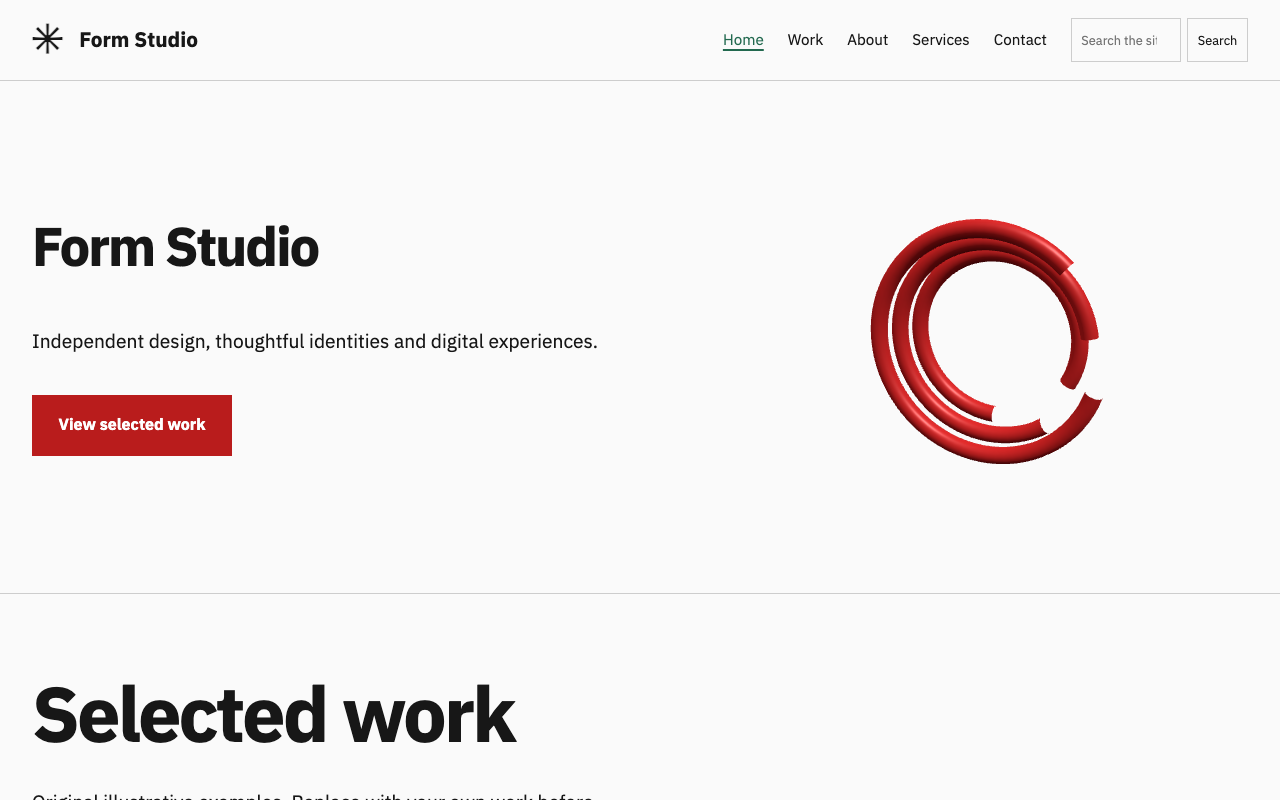
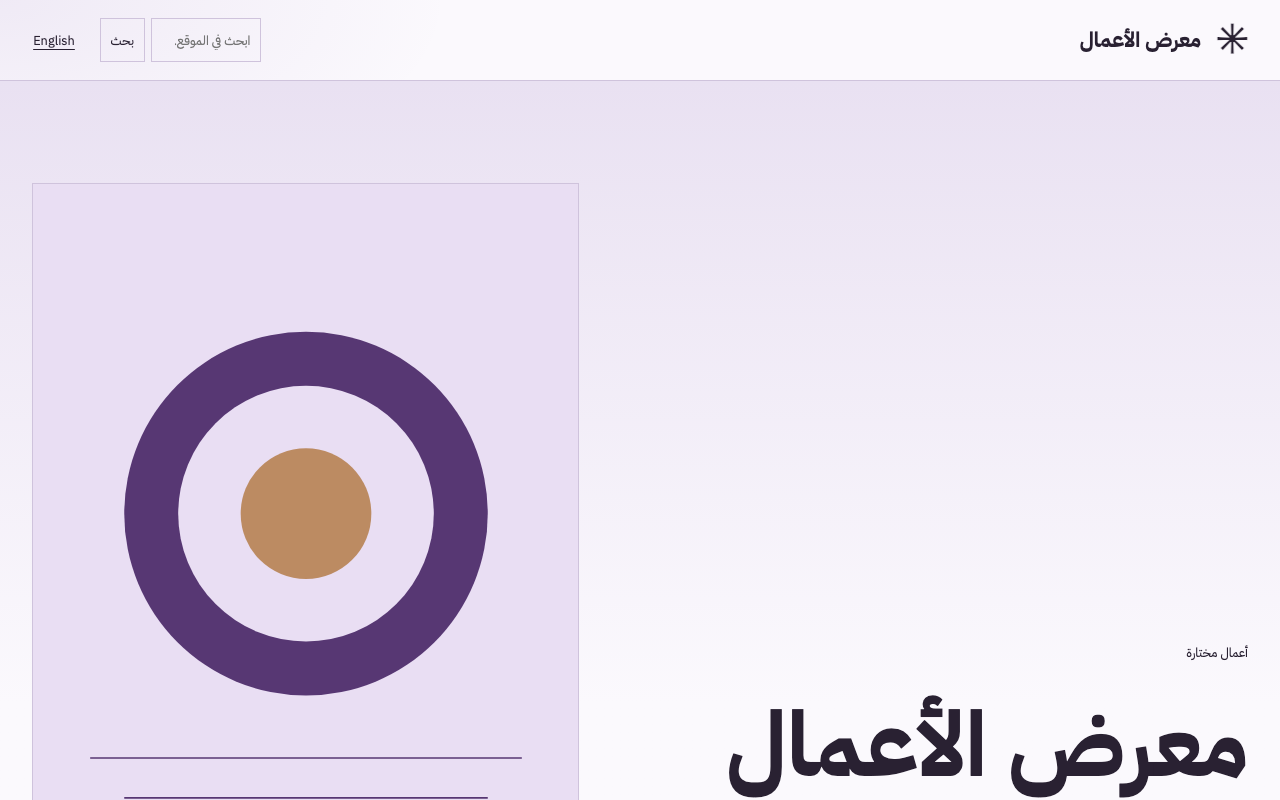
Give bundled themes descriptive identities and neutral previews

diff --git a/e2e/tests/theme-identities.spec.ts b/e2e/tests/theme-identities.spec.ts
@@ -1,0 +1,132 @@
+// Fresh-app documentation fixture: descriptive categories, never customer brands.
+// THEME_SCREENSHOTS=1 updates bundled gallery/README images; other runs write only test output.
+import { test, expect, type Page } from '@playwright/test';
+import { mkdirSync } from 'node:fs';
+import { resolve } from 'node:path';
+import { csrf, db, setLocale, MARKER_500 } from '../lib/helpers.ts';
+
+const themes = [
+  {slug:'default',en:'Reading & blog',ar:'مدونة وقراءة',accent:'#345e7c',enNote:'Notes, guides and ideas, with room to read.',arNote:'مقالات وأفكار وأدلة، في مساحة مريحة للقراءة.'},
+  {slug:'business',en:'Company & services',ar:'شركة وخدمات',accent:'#1e6650',enNote:'Clear services, selected work and a direct way to get in touch.',arNote:'خدمات واضحة وأعمال مختارة وطريقة مباشرة للتواصل.'},
+  {slug:'portfolio',en:'Project portfolio',ar:'معرض الأعمال',accent:'#6b3fa0',enNote:'Selected projects, process and the work behind them.',arNote:'مشاريع مختارة، وخطوات العمل والأفكار التي تقف وراءها.'},
+  {slug:'magazine',en:'Editorial magazine',ar:'مجلة تحريرية',accent:'#89402e',enNote:'Stories, perspectives and thoughtful long-form reading.',arNote:'قصص ووجهات نظر ومقالات تستحق وقت القراءة.'},
+  {slug:'docs',en:'Knowledge base',ar:'قاعدة المعرفة',accent:'#374fa0',enNote:'Guides, references and answers, organized for finding.',arNote:'أدلة ومراجع وإجابات، مرتبة لتصل إليها بسهولة.'},
+];
+
+function setting(key:string,value:unknown) {
+  const database=db();
+  database.prepare('INSERT INTO settings(key,value_json,updated_at) VALUES(?,?,?) ON CONFLICT(key) DO UPDATE SET value_json=excluded.value_json').run(key,JSON.stringify(value),new Date().toISOString());
+  database.close();
+}
+async function activate(page:Page,slug:string) {
+  await page.goto('/admin/appearance/themes');
+  const response=await page.request.post(`/admin/appearance/themes/${slug}/activate`,{form:{_csrf:await csrf(page)},maxRedirects:0});
+  expect(response.status()).toBe(303);
+}
+
+test('descriptive theme previews in English/Arabic and preserved customer identity', async ({page},testInfo) => {
+  test.setTimeout(180_000);
+  const changedKeys=['site.theme','site.title','site.tagline','site.logo','site.locale','site.front_page','builder.identity'];
+  const snapshotDB=db();
+  const snapshots=snapshotDB.prepare("SELECT key,value_json,updated_at FROM settings WHERE key IN ("+changedKeys.map(()=>'?').join(',')+") OR key LIKE 'theme.%'").all(...changedKeys) as {key:string,value_json:string,updated_at:string}[];
+  snapshotDB.prepare("DELETE FROM settings WHERE key='builder.identity' OR key LIKE 'theme.%'").run();
+  snapshotDB.close();
+  try {
+  const errors:string[]=[];
+  page.on('pageerror',error=>errors.push(error.message));
+  await page.goto('/admin');
+  await setLocale(page,'en');
+  await page.goto('/admin/media');
+  await page.locator('#media-file').setInputFiles(resolve('fixtures/theme-preview.svg'));
+  await expect(page.locator('#media-results')).toContainText('theme-preview');
+  const database=db();
+  const media=database.prepare('SELECT id,url FROM media WHERE filename=? ORDER BY created_at DESC,rowid DESC LIMIT 1').get('theme-preview.svg') as {id:string,url:string};
+  database.close();
+  const postPaths:Record<string,string>={};
+  for(const locale of ['en','ar']) {
+    for(let index=0;index<3;index++) {
+      const title=locale==='en'?['A clearer way to organize your work','Small steps, considered results','A practical guide to getting started'][index]:['طريقة أوضح لتنظيم العمل','خطوات صغيرة ونتائج مدروسة','دليل عملي للبداية'][index];
+      const response=await page.request.post('/api/v1/content',{headers:{'X-CSRF-Token':await csrf(page)},data:{type:'post',title,slug:`theme-story-${locale}-${index}`,locale,status:'published',featured_media_id:media.id,excerpt:locale==='en'?'Example content for this theme preview. Replace it with your own writing.':'محتوى توضيحي لمعاينة القالب. استبدله بمحتوى موقعك.',body:locale==='en'?'<p>A useful page starts with a clear idea and a readable structure.</p><h2>Make the next step clear</h2><p>Use this sample to explore the layout, navigation and reading experience.</p>':'<p>تبدأ الصفحة المفيدة بفكرة واضحة وبنية مريحة للقراءة.</p><h2>خطوة تالية واضحة</h2><p>استخدم هذا المثال لاستكشاف التنسيق والتنقل وتجربة القراءة.</p>'}});
+      expect(response.status()).toBe(201);
+      if(index===0)postPaths[locale]=`/${locale}/post/theme-story-${locale}-${index}`;
+    }
+    for(const [index,title] of (locale==='en'?['Getting started','Writing and publishing','Settings and reference']:['دليل البدء','الكتابة والنشر','الإعدادات والمراجع']).entries()) {
+      const response=await page.request.post('/api/v1/content',{headers:{'X-CSRF-Token':await csrf(page)},data:{type:'page',title,slug:`theme-guide-${locale}-${index}`,locale,status:'published',body:locale==='en'?'<p>A short example guide for this layout.</p>':'<p>دليل توضيحي قصير لتجربة هذا التنسيق.</p>'}});
+      expect(response.status()).toBe(201);
+    }
+  }
+  setting('site.front_page','');setting('site.logo','');setting('site.locale','ar');
+  const output=process.env.THEME_PREVIEW_DIR?resolve(process.env.THEME_PREVIEW_DIR):testInfo.outputPath('theme-previews');
+  mkdirSync(output,{recursive:true});
+  for(const theme of themes) {
+    await activate(page,theme.slug);
+    await page.goto('/admin/appearance/themes');
+    await expect(page.locator(`#theme-${theme.slug}`)).toHaveText(theme.en);
+    for(const locale of ['en','ar']) {
+      setting('site.title',locale==='en'?theme.en:theme.ar);
+      setting('site.tagline',locale==='en'?theme.enNote:theme.arNote);
+      for(const width of [1280,390]) {
+        await page.setViewportSize({width,height:width===1280?800:844});
+        const response=await page.goto(`/${locale}/`);
+        expect(response?.status()).toBe(200);
+        await page.evaluate(()=>document.fonts.ready);
+        await expect(page.locator('html')).toHaveAttribute('lang',locale);
+        await expect(page.locator('html')).toHaveAttribute('dir',locale==='ar'?'rtl':'ltr');
+        expect(await page.content()).not.toContain(MARKER_500);
+        await expect(page.locator('header').first()).toContainText(locale==='en'?theme.en:theme.ar);
+        expect(await page.evaluate(()=>document.documentElement.scrollWidth>innerWidth)).toBe(false);
+        const accent=await page.locator('html').evaluate(el=>getComputedStyle(el).getPropertyValue('--accent').trim());
+        expect(accent).toBe(theme.accent);
+        if(theme.slug==='portfolio'&&width===1280)await expect(page.locator('.studio-header-cta-mobile')).toBeHidden();
+        await page.screenshot({path:resolve(output,`${theme.slug}-${locale}-${width}.png`)});
+        if(process.env.THEME_SCREENSHOTS==='1') {
+          if(locale==='ar'&&width===1280)await page.screenshot({path:resolve('..','themes',theme.slug,'screenshot.png')});
+          if(theme.slug==='default'&&locale==='en'&&width===1280)await page.screenshot({path:resolve('..','assets/branding/screenshots/theme-home-en.png')});
+          if(theme.slug==='default'&&locale==='ar'&&width===390) {
+            await page.goto(postPaths.ar);
+            await expect(page.locator('html')).toHaveAttribute('dir','rtl');
+            await page.screenshot({path:resolve('..','assets/branding/screenshots/theme-post-ar-mobile.png'),fullPage:true});
+          }
+        }
+      }
+    }
+  }
+  // Activation may change the theme slug only: existing customer identity must win.
+  setting('site.title','Customer-owned title');setting('site.tagline','Keep my site identity');setting('site.logo',media.id);
+  const custom={accent:'#7c2d12',background:'#fff8ee',text:'#231a12',font:'system',width:'standard'};
+  setting('builder.identity',custom);
+  for(const theme of themes) {
+    await activate(page,theme.slug);
+    for(const locale of ['en','ar']) {
+    await page.goto(`/${locale}/`);
+    await expect(page.locator('header').first()).toContainText('Customer-owned title');
+    await expect(page.locator('header img').first()).toHaveAttribute('src',media.url);
+    const visibleIdentity=await page.evaluate(()=>{
+      const root=getComputedStyle(document.documentElement), body=getComputedStyle(document.body);
+      return {accent:root.getPropertyValue('--accent').trim(),buttonAccent:root.getPropertyValue('--gp-accent').trim(),background:body.backgroundColor,text:body.color,font:body.fontFamily};
+    });
+    expect(visibleIdentity.accent).toBe(custom.accent);
+    expect(visibleIdentity.buttonAccent).toBe(custom.accent);
+    expect(visibleIdentity.background).toBe('rgb(255, 248, 238)');
+    expect(visibleIdentity.text).toBe('rgb(35, 26, 18)');
+    expect(visibleIdentity.font).toContain('system-ui');
+    const database=db();
+    for(const [key,value] of Object.entries({'site.title':'Customer-owned title','site.logo':media.id,'builder.identity':custom})) {
+      const row=database.prepare('SELECT value_json FROM settings WHERE key=?').get(key) as {value_json:string};
+      expect(JSON.parse(row.value_json)).toEqual(value);
+    }
+    database.close();
+    }
+  }
+  // A separately saved per-theme accent remains more specific than builder defaults.
+  setting('theme.docs.identity_accent','#174a6c');
+  await activate(page,'docs');await page.goto('/en/');
+  expect(await page.locator('html').evaluate(el=>getComputedStyle(el).getPropertyValue('--accent').trim())).toBe('#174a6c');
+  expect(errors).toEqual([]);
+  } finally {
+    const restore=db();
+    restore.prepare("DELETE FROM settings WHERE key IN ("+changedKeys.map(()=>'?').join(',')+") OR key LIKE 'theme.%'").run(...changedKeys);
+    for(const row of snapshots)restore.prepare('INSERT INTO settings(key,value_json,updated_at) VALUES(?,?,?)').run(row.key,row.value_json,row.updated_at);
+    restore.close();
+  }
+});

diff --git a/themes/portfolio/assets/site.css b/themes/portfolio/assets/site.css
@@ -1,4 +1,4 @@
-:where(html[data-theme="portfolio"]){--bg:oklch(98% .005 75);--panel:oklch(96% .008 75);--panel-2:oklch(92% .012 75);--panel-3:oklch(88% .014 75);--head:oklch(25% .012 65);--ink:oklch(25% .012 65);--ink-2:oklch(32% .012 65);--muted:oklch(44% .015 65);--muted-tinted:oklch(38% .015 65);--line:oklch(82% .015 75);--line-2:oklch(88% .012 75);--line-strong:oklch(55% .02 75);--accent:oklch(42% .07 155);--accent-hover:oklch(34% .07 155);--accent-ink:var(--accent);--accent-soft:oklch(94% .025 155);--accent-tint:oklch(96% .015 155);--accent-line:oklch(68% .05 155);--on-accent:#fff;--green:var(--accent);--green-hover:var(--accent-hover);--blue:var(--ink);--radius:0;--radius-card:0;--font:system-ui,-apple-system,"Segoe UI",Tahoma,sans-serif;--font-ui:var(--font);--font-heading:var(--font);--body-size:16px;--site-width:1280px;--gp-width:var(--site-width);--gp-accent:var(--accent)}
+:where(html[data-theme="portfolio"]){--bg:#fbf9fd;--panel:#f4eff9;--panel-2:#eae2f2;--panel-3:#ded2e9;--head:#292132;--ink:#292132;--ink-2:#41374b;--muted:#64596f;--muted-tinted:#53465f;--line:#cfc3dc;--line-2:#e1d9e9;--line-strong:#9784aa;--accent:#6b3fa0;--accent-hover:#523078;--accent-ink:var(--accent);--accent-soft:#eee4f7;--accent-tint:#f6f0fb;--accent-line:#bda4d4;--on-accent:#fff;--green:var(--accent);--green-hover:var(--accent-hover);--blue:var(--ink);--radius:0;--radius-card:0;--font:system-ui,-apple-system,"Segoe UI",Tahoma,sans-serif;--font-ui:var(--font);--font-heading:var(--font);--body-size:16px;--site-width:1280px;--gp-width:var(--site-width);--gp-accent:var(--accent)}
 :where(html[data-theme="portfolio"][dir="rtl"]){--font:Zad,"Zad Font",Tahoma,sans-serif;--font-ui:var(--font);--font-heading:var(--font)}
 body{margin:0;background:var(--gp-bg,var(--bg));color:var(--gp-text,var(--ink));font-size:var(--body-size);overflow-wrap:anywhere}button,input,textarea{font:inherit}a{color:inherit}a:focus-visible,summary:focus-visible,button:focus-visible,input:focus-visible,textarea:focus-visible{outline:2px solid currentColor;outline-offset:5px}img{max-width:100%;height:auto}.studio-shell{width:calc(100% - 4rem);max-width:var(--gp-width,1280px);margin-inline:auto}.studio-header{border-bottom:1px solid var(--line)}.studio-header-inner{display:flex;align-items:center;justify-content:space-between;gap:2rem;min-height:80px}.studio-brand{display:flex;align-items:center;gap:1rem;font-size:1.3rem;font-weight:750;text-decoration:none;max-width:60%}.studio-monogram{font-size:2.6rem;line-height:1}.studio-logo{height:44px;width:auto;max-width:150px;object-fit:contain}.studio-navigation{position:relative}.studio-navigation summary{display:flex;align-items:center;gap:2rem;cursor:pointer;padding:1rem 0;list-style:none;font-weight:650}.studio-navigation summary::-webkit-details-marker{display:none}.studio-navigation summary span{font-size:1.8rem;line-height:1}.studio-navigation[open] summary span{transform:rotate(45deg)}.studio-navigation-panel{position:absolute;inset-inline-end:0;inset-block-start:100%;background:var(--gp-bg,var(--bg));border:1px solid var(--line);padding:2rem;width:min(420px,calc(100vw - 4rem));z-index:40}.studio-navigation ul,.studio-footer ul{display:flex;flex-wrap:wrap;gap:1rem;list-style:none;margin:0;padding:0}.studio-navigation ul{display:grid;gap:1.2rem}.studio-navigation nav a{font-size:1.5rem;text-decoration:none}.studio-navigation form{display:flex;gap:.5rem;border-top:1px solid var(--line);margin-top:2rem;padding-top:1.5rem}.studio-navigation input{min-width:0;width:100%;background:transparent;border:1px solid var(--line);color:inherit;padding:.6rem}.studio-navigation button,.studio-search-form button{border:1px solid var(--line);background:transparent;color:inherit;padding:.6rem 1rem;cursor:pointer}.studio-locale{display:inline-block;margin-top:1.5rem}.studio-main{flex:1;width:100%}.studio-footer{border-top:1px solid var(--line);padding-block:5rem 2rem}.studio-footer-title{display:flex;justify-content:space-between;gap:1rem;font-size:clamp(2rem,6vw,5rem);font-weight:750;line-height:1.1;letter-spacing:-.035em;text-decoration:none}.studio-footer p{margin-block:1.5rem;max-width:50ch}.studio-footer-meta{display:flex;justify-content:space-between;flex-wrap:wrap;gap:2rem;margin-top:4rem;font-size:.85rem}.studio-footer nav a{text-underline-offset:.3em}.studio-article,.studio-listing,.studio-error{padding-block:5rem}.studio-article{max-width:min(var(--gp-width,1280px),1000px)}.studio-article h1,.studio-listing>h1,.studio-error h1,.studio-intro h1{font-weight:750;font-size:clamp(2.5rem,7vw,6rem);line-height:1.1;letter-spacing:-.035em;margin:0 0 2.5rem}.studio-featured{display:block;width:100%;max-height:650px;object-fit:cover}.studio-article figure{margin-block:3rem}.studio-article figcaption{font-size:.85rem;margin-top:1rem}.studio-article .prose-gp{max-width:72ch;margin-inline:auto;font-size:1.1rem}.studio-kicker{font:.8rem ui-monospace,SFMono-Regular,monospace;text-transform:uppercase;letter-spacing:.08em;margin-bottom:1rem}.studio-intro{padding-block:6rem}.studio-intro>p:last-child{font-size:1.3rem;max-width:46ch}
 .studio-hero{width:100%;border-bottom:1px solid var(--line)}
@@ -73,11 +73,11 @@ html[data-theme="portfolio"] .studio-hero-art:hover img{transform:scale(1.02)}
 @media(prefers-reduced-motion:reduce){html[data-theme="portfolio"] .studio-hero-art img{transition:none}html[data-theme="portfolio"] .studio-hero-art:hover img{transform:none}}
 
 /* PR2: filled CTA stays visible outside the mobile details menu */
-.studio-header-cta-mobile{display:none}
+.studio-header .studio-header-cta-mobile{display:none}
 @media(max-width:1099px){
-  .studio-header-cta-mobile{display:inline-flex;align-items:center;flex:0 0 auto}
+  .studio-header .studio-header-cta-mobile{display:inline-flex;align-items:center;flex:0 0 auto}
   .studio-header-inner{flex-wrap:wrap}
 }
 @media(min-width:1100px){
-  .studio-header-cta-mobile{display:none}
+  .studio-header .studio-header-cta-mobile{display:none}
 }

diff --git a/e2e/tests/readme-screenshots.spec.ts b/e2e/tests/readme-screenshots.spec.ts
@@ -42,8 +42,8 @@ test('capture current README product screens with synthetic campaign data', asyn
   const agent=await key('agent','Campaign assistant',['content.view','content.create','content.publish','canvas.read','canvas.append','canvas.run']);
   const headers={Authorization:`Bearer ${rest}`};
   const stories=[
-    {title:'A calmer workspace for your next big idea',slug:'a-calmer-workspace',locale:'en',status:'published',excerpt:'One place to plan a launch, shape the story and keep your team moving.',body:'<p>Good work starts with a clear brief. Atlas Studio brings people, content and the next decision into one shared workspace.</p><h2>From an idea to a considered launch</h2><p>Keep the product story, the Arabic edition and your review checklist together. Let your assistant prepare a draft, then let your team make the publishing decision.</p>'},
-    {title:'مساحة أهدأ لفكرتك القادمة',slug:'your-next-idea',locale:'ar',status:'published',excerpt:'من الفكرة إلى الإطلاق، بمحتوى واضح وفريق يعمل معًا.',body:'<p>كل مشروع جيد يبدأ بفكرة واضحة. في أطلس ستوديو نجمع المحتوى والفريق وخطوة العمل التالية في مساحة واحدة.</p><h2>قصة واحدة بلغتين</h2><p>جهز المسودة، وراجع التفاصيل مع فريقك، ثم اتخذ قرار النشر. تبقى النسخة العربية والإنجليزية ضمن خطة واحدة.</p>'},
+    {title:'A calmer workspace for your next big idea',slug:'a-calmer-workspace',locale:'en',status:'published',excerpt:'One place to plan a launch, shape the story and keep your team moving.',body:'<p>Good work starts with a clear brief. A clear workspace brings people, content and the next decision together.</p><h2>From an idea to a considered launch</h2><p>Keep the product story, the Arabic edition and your review checklist together. Let your assistant prepare a draft, then let your team make the publishing decision.</p>'},
+    {title:'مساحة أهدأ لفكرتك القادمة',slug:'your-next-idea',locale:'ar',status:'published',excerpt:'من الفكرة إلى الإطلاق، بمحتوى واضح وفريق يعمل معًا.',body:'<p>كل مشروع جيد يبدأ بفكرة واضحة. نجمع المحتوى والفريق وخطوة العمل التالية في مساحة واحدة.</p><h2>قصة واحدة بلغتين</h2><p>جهز المسودة، وراجع التفاصيل مع فريقك، ثم اتخذ قرار النشر. تبقى النسخة العربية والإنجليزية ضمن خطة واحدة.</p>'},
     {title:'Meet the team behind the launch',slug:'meet-the-team',locale:'en',status:'draft',excerpt:'The people and small decisions that shape our work.',body:'<p>A behind-the-scenes story ready for editorial review.</p>'},
     {title:'دليل الفريق لإطلاق الحملة',slug:'campaign-guide',locale:'ar',status:'draft',excerpt:'قائمة مراجعة عملية قبل النشر.',body:'<p>راجِع الرسالة والروابط والصور قبل إطلاق الحملة.</p>'},
   ];
@@ -180,10 +180,23 @@ test('capture current README product screens with synthetic campaign data', asyn
   await setLocale(page,'ar');
   await page.goto('/admin/agents/approvals');
   await shot('approvals-ar.png');
+  // Public theme previews use a descriptive category title and neutral artwork,
+  // independently of the fictional campaign identity shown in admin screenshots.
+  await page.goto('/admin/media');
+  await page.locator('#media-file').setInputFiles(resolve('fixtures/theme-preview.svg'));
+  await expect(page.locator('#media-results')).toContainText('theme-preview');
+  const themeDB=db();
+  const themeMedia=themeDB.prepare('SELECT id FROM media WHERE filename=? ORDER BY created_at DESC,rowid DESC LIMIT 1').get('theme-preview.svg') as any;
+  for(const id of ids.slice(0,2))themeDB.prepare('UPDATE content SET featured_media_id=? WHERE id=?').run(themeMedia.id,id);
+  themeDB.prepare("UPDATE settings SET value_json=? WHERE key='site.title'").run(JSON.stringify('Reading & blog'));
+  themeDB.close();
   await setLocale(page,'en');
   await page.goto('/en/');
   await expect(page.locator('html')).toHaveAttribute('lang','en');
   await shot('theme-home-en.png');
+  const arabicThemeDB=db();
+  arabicThemeDB.prepare("UPDATE settings SET value_json=? WHERE key='site.title'").run(JSON.stringify('مدونة وقراءة'));
+  arabicThemeDB.close();
   await page.setViewportSize({width:390,height:844});
   await page.goto('/ar/post/your-next-idea');
   await expect(page.locator('html')).toHaveAttribute('lang','ar');

diff --git a/e2e/tests/site-starter.spec.ts b/e2e/tests/site-starter.spec.ts
@@ -1,17 +1,14 @@
 import {test,expect} from '@playwright/test';
-import {execFileSync} from 'node:child_process';
-import {resolve} from 'node:path';
 import {db,env,setLocale,expectNoServerError} from '../lib/helpers.ts';
 
 test('three site starters prepare private drafts, activate usable sites and apply editable identity',async({page,browser},testInfo)=>{
  test.setTimeout(180_000);
- const designs={company:{theme:'business',pages:5,background:'rgb(248, 250, 249)',accent:'#0f766e',font:'zad'},portfolio:{theme:'portfolio',pages:5,background:'rgb(250, 250, 250)',accent:'#b91c1c',font:'zad'},magazine:{theme:'magazine',pages:4,background:'rgb(250, 249, 246)',accent:'#9f2b19',font:'serif'}};
+ const designs={company:{theme:'business',pages:5,background:'rgb(248, 251, 249)',accent:'#1e6650',font:'zad'},portfolio:{theme:'portfolio',pages:5,background:'rgb(251, 249, 253)',accent:'#6b3fa0',font:'zad'},magazine:{theme:'magazine',pages:4,background:'rgb(244, 240, 232)',accent:'#89402e',font:'serif'}};
  const errors:string[]=[];page.on('pageerror',error=>errors.push(error.message));
  const keys=['site.title','site.tagline','site.locale','site.front_page','site.theme','site.logo','builder.identity'];
  const database=db();
  const saved=keys.map(key=>({key,value:(database.prepare('SELECT value_json FROM settings WHERE key=?').get(key) as any)?.value_json}));
  const menus=database.prepare("SELECT id,location FROM menus WHERE location='primary'").all() as any[];
- const cli=resolve('.bin/gorun');
  const oldItems=database.prepare('SELECT count(*) AS n FROM content').get() as any;
  const anonymous=await browser.newContext({storageState:{cookies:[],origins:[]}});const publicPage=await anonymous.newPage();
  const external:string[]=[];publicPage.on('pageerror',error=>errors.push(error.message));
@@ -21,7 +18,7 @@ test('three site starters prepare private drafts, activate usable sites and appl
   await expect(page.getByRole('heading',{level:1})).toContainText('ابنِ موقعك');
   for(const kind of ['company','portfolio','magazine'] as const){
    const design=designs[kind];
-   const siteTitle={company:'مدار',portfolio:'Form Studio',magazine:'مساحة'}[kind];
+   const siteTitle={company:'شركة وخدمات',portfolio:'Project portfolio',magazine:'مجلة تحريرية'}[kind];
    const siteTagline={company:'نبني مواقع واضحة وتجارب رقمية تخدم أهداف مشروعك.',portfolio:'Independent design, thoughtful identities and digital experiences.',magazine:'مجلة مستقلة للأفكار والثقافة والتصميم.'}[kind];
    const publicThemeBefore=(database.prepare("SELECT value_json FROM settings WHERE key='site.theme'").get() as any)?.value_json;
    const publicFrontBefore=(database.prepare("SELECT value_json FROM settings WHERE key='site.front_page'").get() as any)?.value_json;
@@ -142,7 +139,7 @@ test('three site starters prepare private drafts, activate usable sites and appl
   expect(errors).toEqual([]);expect(external).toEqual([]);
  }finally{
   // Restore only this throwaway E2E site's mutable settings/menu locations, preserving other specs' fixtures.
-  for(const item of saved){execFileSync(cli,item.value===undefined?['settings','unset',item.key,'--data',env('E2E_DATA')]:['settings','set',item.key,item.value,'--data',env('E2E_DATA')],{stdio:'pipe'})}
+  for(const item of saved){if(item.value===undefined)database.prepare('DELETE FROM settings WHERE key=?').run(item.key);else database.prepare('INSERT INTO settings(key,value_json,updated_at) VALUES(?,?,?) ON CONFLICT(key) DO UPDATE SET value_json=excluded.value_json').run(item.key,item.value,new Date().toISOString())}
   database.exec('BEGIN IMMEDIATE');try{database.prepare("UPDATE menus SET location='' WHERE location='primary'").run();for(const menu of menus)database.prepare('UPDATE menus SET location=? WHERE id=?').run(menu.location,menu.id);database.exec('COMMIT')}catch(error){database.exec('ROLLBACK');throw error}
   database.close();await anonymous.close();
  }

diff --git a/themes/business/assets/site.css b/themes/business/assets/site.css
@@ -1,4 +1,4 @@
-:where(html[data-theme="business"]){--bg:oklch(98% .006 150);--panel:oklch(96% .009 150);--panel-2:oklch(92% .018 150);--panel-3:oklch(88% .02 150);--head:oklch(25% .025 150);--ink:oklch(25% .025 150);--ink-2:oklch(32% .025 150);--muted:oklch(45% .02 150);--muted-tinted:oklch(38% .022 150);--line:oklch(82% .017 150);--line-2:oklch(88% .012 150);--line-strong:oklch(65% .02 150);--accent:oklch(43% .09 150);--accent-hover:oklch(36% .09 150);--accent-ink:var(--accent);--accent-soft:oklch(94% .03 150);--accent-tint:oklch(96% .02 150);--accent-line:oklch(70% .06 150);--on-accent:#fff;--green:var(--accent);--font:system-ui,-apple-system,"Segoe UI",Tahoma,sans-serif;--font-ui:var(--font);--font-heading:var(--font);--site-width:1280px;--gp-width:var(--site-width);--gp-accent:var(--accent);--radius:0;--radius-card:0;color-scheme:light;font-family:var(--font);background:var(--bg);color:var(--ink)}
+:where(html[data-theme="business"]){--bg:oklch(98% .006 150);--panel:oklch(96% .009 150);--panel-2:oklch(92% .018 150);--panel-3:oklch(88% .02 150);--head:oklch(25% .025 150);--ink:oklch(25% .025 150);--ink-2:oklch(32% .025 150);--muted:oklch(45% .02 150);--muted-tinted:oklch(38% .022 150);--line:oklch(82% .017 150);--line-2:oklch(88% .012 150);--line-strong:oklch(65% .02 150);--accent:#1e6650;--accent-hover:#174f3e;--accent-ink:var(--accent);--accent-soft:oklch(94% .03 150);--accent-tint:oklch(96% .02 150);--accent-line:oklch(70% .06 150);--on-accent:#fff;--green:var(--accent);--font:system-ui,-apple-system,"Segoe UI",Tahoma,sans-serif;--font-ui:var(--font);--font-heading:var(--font);--site-width:1280px;--gp-width:var(--site-width);--gp-accent:var(--accent);--radius:0;--radius-card:0;color-scheme:light;font-family:var(--font);background:var(--bg);color:var(--ink)}
 :where(html[data-theme="business"][dir="rtl"]){--font:Zad,"Zad Font",Tahoma,sans-serif;--font-ui:var(--font);--font-heading:var(--font)}
 html[data-theme="business"] *{box-sizing:border-box}
 html[data-theme="business"] body{margin:0;font-family:var(--font);line-height:1.7;background:var(--bg);color:var(--ink);overflow-wrap:anywhere}

diff --git a/themes/docs/assets/theme.css b/themes/docs/assets/theme.css
@@ -1,4 +1,4 @@
-/* Docs: a calm blue reading theme on top of default/style.css. Layout:
+/* Knowledge base: an indigo reading theme on top of default/style.css. Layout:
    section sidebar, article, "on this page" list; stacked on phones.
    Tokens live under :where() so identity / builder can restyle them. */
 :where(html[data-theme="docs"]) {
@@ -14,22 +14,22 @@
   --line: #d8dee5;
   --line-2: #e6ebf0;
   --line-strong: #a9b5c2;
-  --accent: #1f5f8b;
-  --accent-hover: #174a6c;
-  --accent-ink: #1f5f8b;
-  --accent-soft: #e6eff7;
-  --accent-tint: #f0f5fa;
-  --accent-line: #7aa3c0;
+  --accent: #374fa0;
+  --accent-hover: #293b7c;
+  --accent-ink: #374fa0;
+  --accent-soft: #e9edfb;
+  --accent-tint: #f3f5fd;
+  --accent-line: #9caadd;
   --on-accent: #ffffff;
   --green: var(--accent);
   --green-hover: var(--accent-hover);
   --green-soft: var(--accent-soft);
-  --blue: #1f5f8b;
-  --blue-hover: #174a6c;
-  --blue-soft: #e6eff7;
+  --blue: #374fa0;
+  --blue-hover: #293b7c;
+  --blue-soft: #e9edfb;
   --radius: 8px;
   --radius-card: 12px;
-  --font: "IBM Plex Sans Arabic", "IBM Plex Sans", system-ui, sans-serif;
+  --font: system-ui, -apple-system, "Segoe UI", Tahoma, sans-serif;
   --font-ui: var(--font);
   --font-heading: var(--font);
   --site-width: 1360px;
@@ -37,6 +37,8 @@
   --docs-accent: var(--accent);
   --docs-soft: var(--accent-soft);
 }
+
+:where(html[data-theme="docs"][dir="rtl"]){--font:"Zad","Zad Font",Tahoma,sans-serif;--font-ui:var(--font);--font-heading:var(--font)}
 
 /* Header */
 html[data-theme="docs"] .docs-header { position: sticky; top: 0; z-index: 40; background: var(--panel); border-bottom: 1px solid var(--line); }

diff --git a/themes/portfolio/parts/header.html b/themes/portfolio/parts/header.html
@@ -4,7 +4,8 @@
 {{part "shell" .}}
 {{$ctaLabel := setting (printf "theme.%s.cta_label" .Theme.Slug)}}
 {{$ctaURL := setting (printf "theme.%s.cta_url" .Theme.Slug)}}
-{{if not (and $ctaLabel $ctaURL)}}{{$ctaLabel = t "search"}}{{$ctaURL = "/search"}}{{end}}
+{{$hasCTA := and $ctaLabel $ctaURL}}
+{{if not $hasCTA}}{{$ctaLabel = t "search"}}{{$ctaURL = "/search"}}{{end}}
 <header data-shell-header="{{$shellHeader}}" class="studio-header">
  <div class="studio-shell studio-header-inner">
   <a href="{{url "/"}}" class="studio-brand">{{with media (setting "site.logo")}}{{img . "thumbnail" "studio-logo"}}{{else}}<span class="studio-monogram" aria-hidden="true">✳</span>{{end}}<span>{{.Site.Title}}</span></a>
@@ -12,7 +13,7 @@
     {{with menu "primary"}}<nav aria-label="{{t "menu"}}"><ul>{{range .Items}}<li><a href="{{url .URL}}"{{if .OpenInNew}} target="_blank" rel="noopener"{{end}}>{{.Label}}</a></li>{{end}}</ul></nav>{{end}}
     <form action="{{url "/search"}}" method="get" role="search"><label class="sr-only" for="studio-desktop-search">{{t "search"}}</label><input id="studio-desktop-search" type="search" name="q" placeholder="{{t "search_placeholder"}}"><button type="submit">{{t "search"}}</button></form>
     {{range .Alternates}}{{if ne .Locale locale}}<a class="studio-locale" href="{{.URL}}" lang="{{.Locale}}" hreflang="{{.Locale}}">{{.Label}}</a>{{end}}{{end}}
-    <a class="gr-btn" href="{{url $ctaURL}}">{{$ctaLabel}}</a>
+    {{if $hasCTA}}<a class="gr-btn" href="{{url $ctaURL}}">{{$ctaLabel}}</a>{{end}}
   </div>
   <a class="gr-btn studio-header-cta-mobile" href="{{url $ctaURL}}">{{$ctaLabel}}</a>
   <details class="studio-navigation">

diff --git a/e2e/tests/theme-acceptance.spec.ts b/e2e/tests/theme-acceptance.spec.ts
@@ -6,7 +6,7 @@
 import { test, expect, type Page } from '@playwright/test';
 import { execFileSync } from 'node:child_process';
 import { resolve } from 'node:path';
-import { MARKER_500, env } from '../lib/helpers.ts';
+import { MARKER_500, env, db } from '../lib/helpers.ts';
 
 const THEMES = ['default', 'business', 'magazine', 'portfolio', 'docs'];
 const WIDTHS = [1440, 390];
@@ -244,6 +244,19 @@ async function auditPage(page: Page): Promise<Audit> {
 }
 
 test.describe.serial('theme acceptance (§6)', () => {
+  let savedTitle: {value_json:string,updated_at:string}|undefined;
+  test.beforeAll(() => {
+    const database=db();
+    savedTitle=database.prepare("SELECT value_json,updated_at FROM settings WHERE key='site.title'").get() as typeof savedTitle;
+    if(!savedTitle||!JSON.parse(savedTitle.value_json))database.prepare("INSERT INTO settings(key,value_json,updated_at) VALUES('site.title',?,?) ON CONFLICT(key) DO UPDATE SET value_json=excluded.value_json").run(JSON.stringify('Theme acceptance preview'),new Date().toISOString());
+    database.close();
+  });
+  test.afterAll(() => {
+    const database=db();
+    if(savedTitle)database.prepare("INSERT INTO settings(key,value_json,updated_at) VALUES('site.title',?,?) ON CONFLICT(key) DO UPDATE SET value_json=excluded.value_json,updated_at=excluded.updated_at").run(savedTitle.value_json,savedTitle.updated_at);
+    else database.prepare("DELETE FROM settings WHERE key='site.title'").run();
+    database.close();
+  });
   test('use theme-native home (no static front page)', async () => {
     useThemeNativeHome();
   });

diff --git a/themes/default/assets/style.css b/themes/default/assets/style.css
@@ -57,24 +57,24 @@ html[data-theme="default"] .reading-card > a:last-child { min-height: 44px; disp
 
 /* Default personality (overrides shared base tokens). */
 :where(html[data-theme="default"]) {
-  --bg: #fafaf8;
+  --bg: #fbfaf7;
   --panel: #ffffff;
-  --panel-2: #f0f2ef;
-  --panel-3: #e4e8e3;
-  --head: #202824;
-  --ink: #202824;
-  --ink-2: #2f3933;
-  --muted: #59665e;
-  --muted-tinted: #4a554e;
-  --line: #dde2dc;
-  --line-2: #e8ebe7;
-  --line-strong: #a4b0a7;
-  --accent: #167252;
-  --accent-hover: #125e44;
-  --accent-ink: #167252;
-  --accent-soft: #dcefe7;
-  --accent-tint: #edf6f1;
-  --accent-line: #9bc4b2;
+  --panel-2: #f0f2f3;
+  --panel-3: #e2e8ec;
+  --head: #26313b;
+  --ink: #26313b;
+  --ink-2: #344452;
+  --muted: #5b6670;
+  --muted-tinted: #4b5965;
+  --line: #dce2e7;
+  --line-2: #e7ebee;
+  --line-strong: #a4b2be;
+  --accent: #345e7c;
+  --accent-hover: #284a62;
+  --accent-ink: #345e7c;
+  --accent-soft: #e0ebf2;
+  --accent-tint: #f0f5f8;
+  --accent-line: #9fb9cc;
   --on-accent: #ffffff;
   --green: var(--accent);
   --green-hover: var(--accent-hover);

diff --git a/themes/docs/parts/head-extra.html b/themes/docs/parts/head-extra.html
@@ -1,6 +1,2 @@
-{{/* Docs fonts and tokens, loaded after the parent's style.css.
-     Budget: 2 families, ≤4 weights (Arabic 400/700 + Latin 400/600). */}}
-<link rel="preconnect" href="https://fonts.googleapis.com">
-<link rel="preconnect" href="https://fonts.gstatic.com" crossorigin>
-<link rel="stylesheet" href="https://fonts.googleapis.com/css2?family=IBM+Plex+Sans+Arabic:wght@400;700&family=IBM+Plex+Sans:wght@400;600&display=swap">
+{{/* Uses the bundled Arabic font and native Latin fonts; no remote font request. */}}
 <link rel="stylesheet" href="{{asset "theme.css"}}">

diff --git a/themes/_base/tokens.css b/themes/_base/tokens.css
@@ -2,7 +2,7 @@
    Every catalog theme loads this first (served as default/assets/tokens.css).
    Child themes override under :where(html[data-theme="<slug>"]), not in components. */
 
-:root {
+:where(:root) {
   /* Surfaces */
   --bg: #f3f5f2;
   --panel: #ffffff;

diff --git a/themes/default/assets/tokens.css b/themes/default/assets/tokens.css
@@ -2,7 +2,7 @@
    Every catalog theme loads this first (served as default/assets/tokens.css).
    Child themes override under :where(html[data-theme="<slug>"]), not in components. */
 
-:root {
+:where(:root) {
   /* Surfaces */
   --bg: #f3f5f2;
   --panel: #ffffff;
